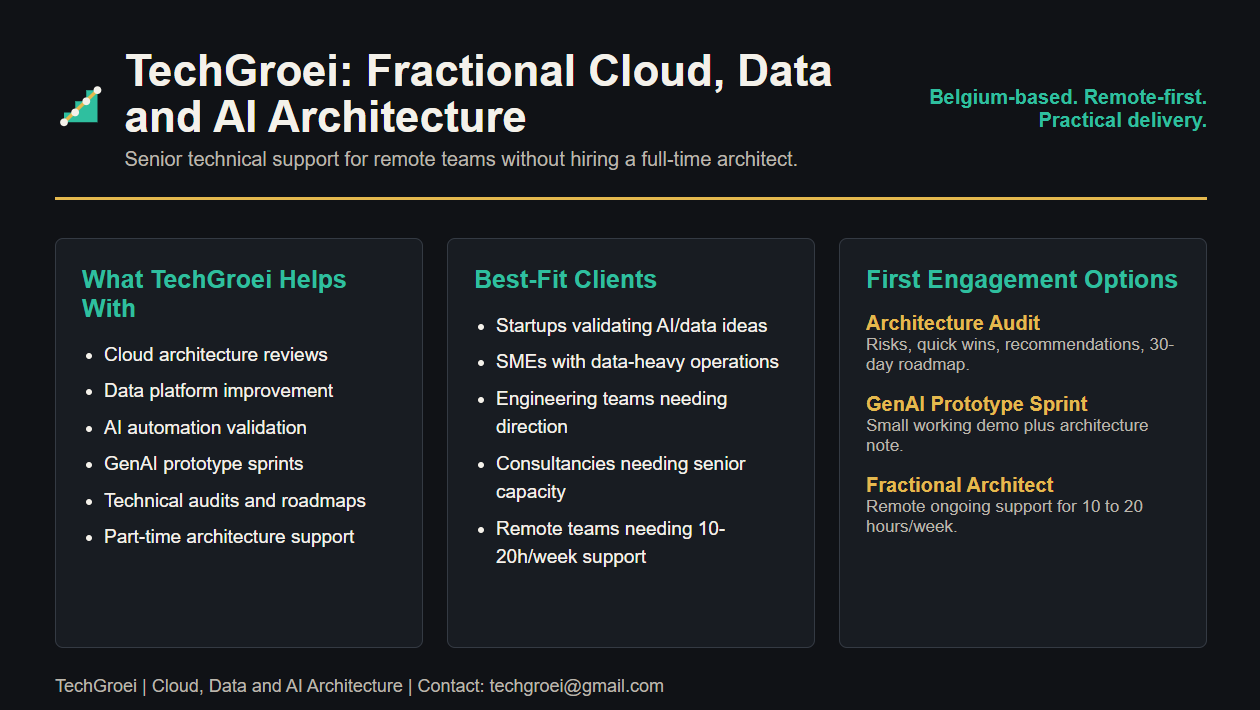
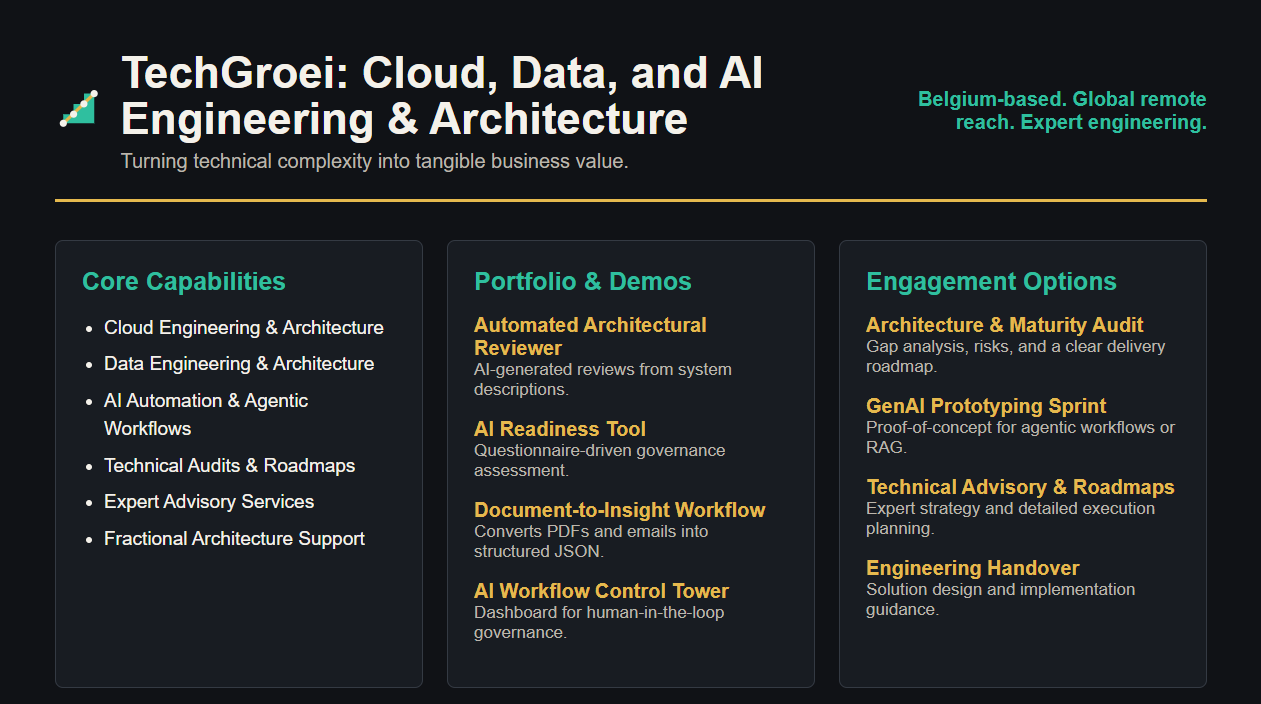
capabilities update

diff --git a/one_slider_capabilities.html b/one_slider_capabilities.html
@@ -149,56 +149,68 @@
                     <circle cx="198" cy="22" r="18" fill="#f4f1ea" />
                 </svg>
                 <div>
-                    <h1>TechGroei: Fractional Cloud, Data and AI Architecture</h1>
-                    <p class="subtitle">Senior technical support for remote teams without hiring a full-time architect.
-                    </p>
+                    <h1>TechGroei: Cloud, Data, and AI Engineering & Architecture</h1>
+                    <p class="subtitle">Turning technical complexity into tangible business value.</p>
                 </div>
             </div>
-            <div class="tag">Belgium-based. Remote-first. Practical delivery.</div>
+            <div class="tag">Belgium-based. Global remote reach. Expert engineering.</div>
         </header>
 
         <div class="columns">
             <article class="card">
-                <h2>What TechGroei Helps With</h2>
+                <h2>Core Capabilities</h2>
                 <ul>
-                    <li>Cloud architecture reviews</li>
-                    <li>Data platform improvement</li>
-                    <li>AI automation validation</li>
-                    <li>GenAI prototype sprints</li>
-                    <li>Technical audits and roadmaps</li>
-                    <li>Part-time architecture support</li>
+                    <li>Cloud Engineering & Architecture</li>
+                    <li>Data Engineering & Architecture</li>
+                    <li>AI Automation & Agentic Workflows</li>
+                    <li>Technical Audits & Roadmaps</li>
+                    <li>Expert Advisory Services</li>
+                    <li>Fractional Architecture Support</li>
                 </ul>
             </article>
 
             <article class="card">
-                <h2>Best-Fit Clients</h2>
-                <ul>
-                    <li>Startups validating AI/data ideas</li>
-                    <li>SMEs with data-heavy operations</li>
-                    <li>Engineering teams needing direction</li>
-                    <li>Consultancies needing senior capacity</li>
-                    <li>Remote teams needing 10-20h/week support</li>
-                </ul>
+                <h2>Portfolio & Demos</h2>
+                <div class="offer">
+                    <strong>Automated Architectural Reviewer</strong>
+                    <span>AI-generated reviews from system descriptions.</span>
+                </div>
+                <div class="offer">
+                    <strong>AI Readiness Tool</strong>
+                    <span>Questionnaire-driven governance assessment.</span>
+                </div>
+                <div class="offer">
+                    <strong>Document-to-Insight Workflow</strong>
+                    <span>Converts PDFs and emails into structured JSON.</span>
+                </div>
+                <div class="offer">
+                    <strong>AI Workflow Control Tower</strong>
+                    <span>Dashboard for human-in-the-loop governance.</span>
+                </div>
             </article>
 
             <article class="card">
-                <h2>First Engagement Options</h2>
+                <h2>Engagement Options</h2>
                 <div class="offer">
-                    <strong>Architecture Audit</strong>
-                    <span>Risks, quick wins, recommendations, 30-day roadmap.</span>
+                    <strong>Architecture & Maturity Audit</strong>
+                    <span>Gap analysis, risks, and a clear delivery roadmap.</span>
                 </div>
                 <div class="offer">
-                    <strong>GenAI Prototype Sprint</strong>
-                    <span>Small working demo plus architecture note.</span>
+                    <strong>GenAI Prototyping Sprint</strong>
+                    <span>Proof-of-concept for agentic workflows or RAG.</span>
                 </div>
                 <div class="offer">
-                    <strong>Fractional Architect</strong>
-                    <span>Remote ongoing support for 10 to 20 hours/week.</span>
+                    <strong>Technical Advisory & Roadmaps</strong>
+                    <span>Expert strategy and detailed execution planning.</span>
+                </div>
+                <div class="offer">
+                    <strong>Engineering Handover</strong>
+                    <span>Solution design and implementation guidance.</span>
                 </div>
             </article>
         </div>
 
-        <footer>TechGroei | Cloud, Data and AI Architecture | Contact: techgroei@gmail.com</footer>
+        <footer>TechGroei | Cloud, Data, and AI Engineering & Architecture | Contact: techgroei@gmail.com</footer>
     </section>
 </body>
 
